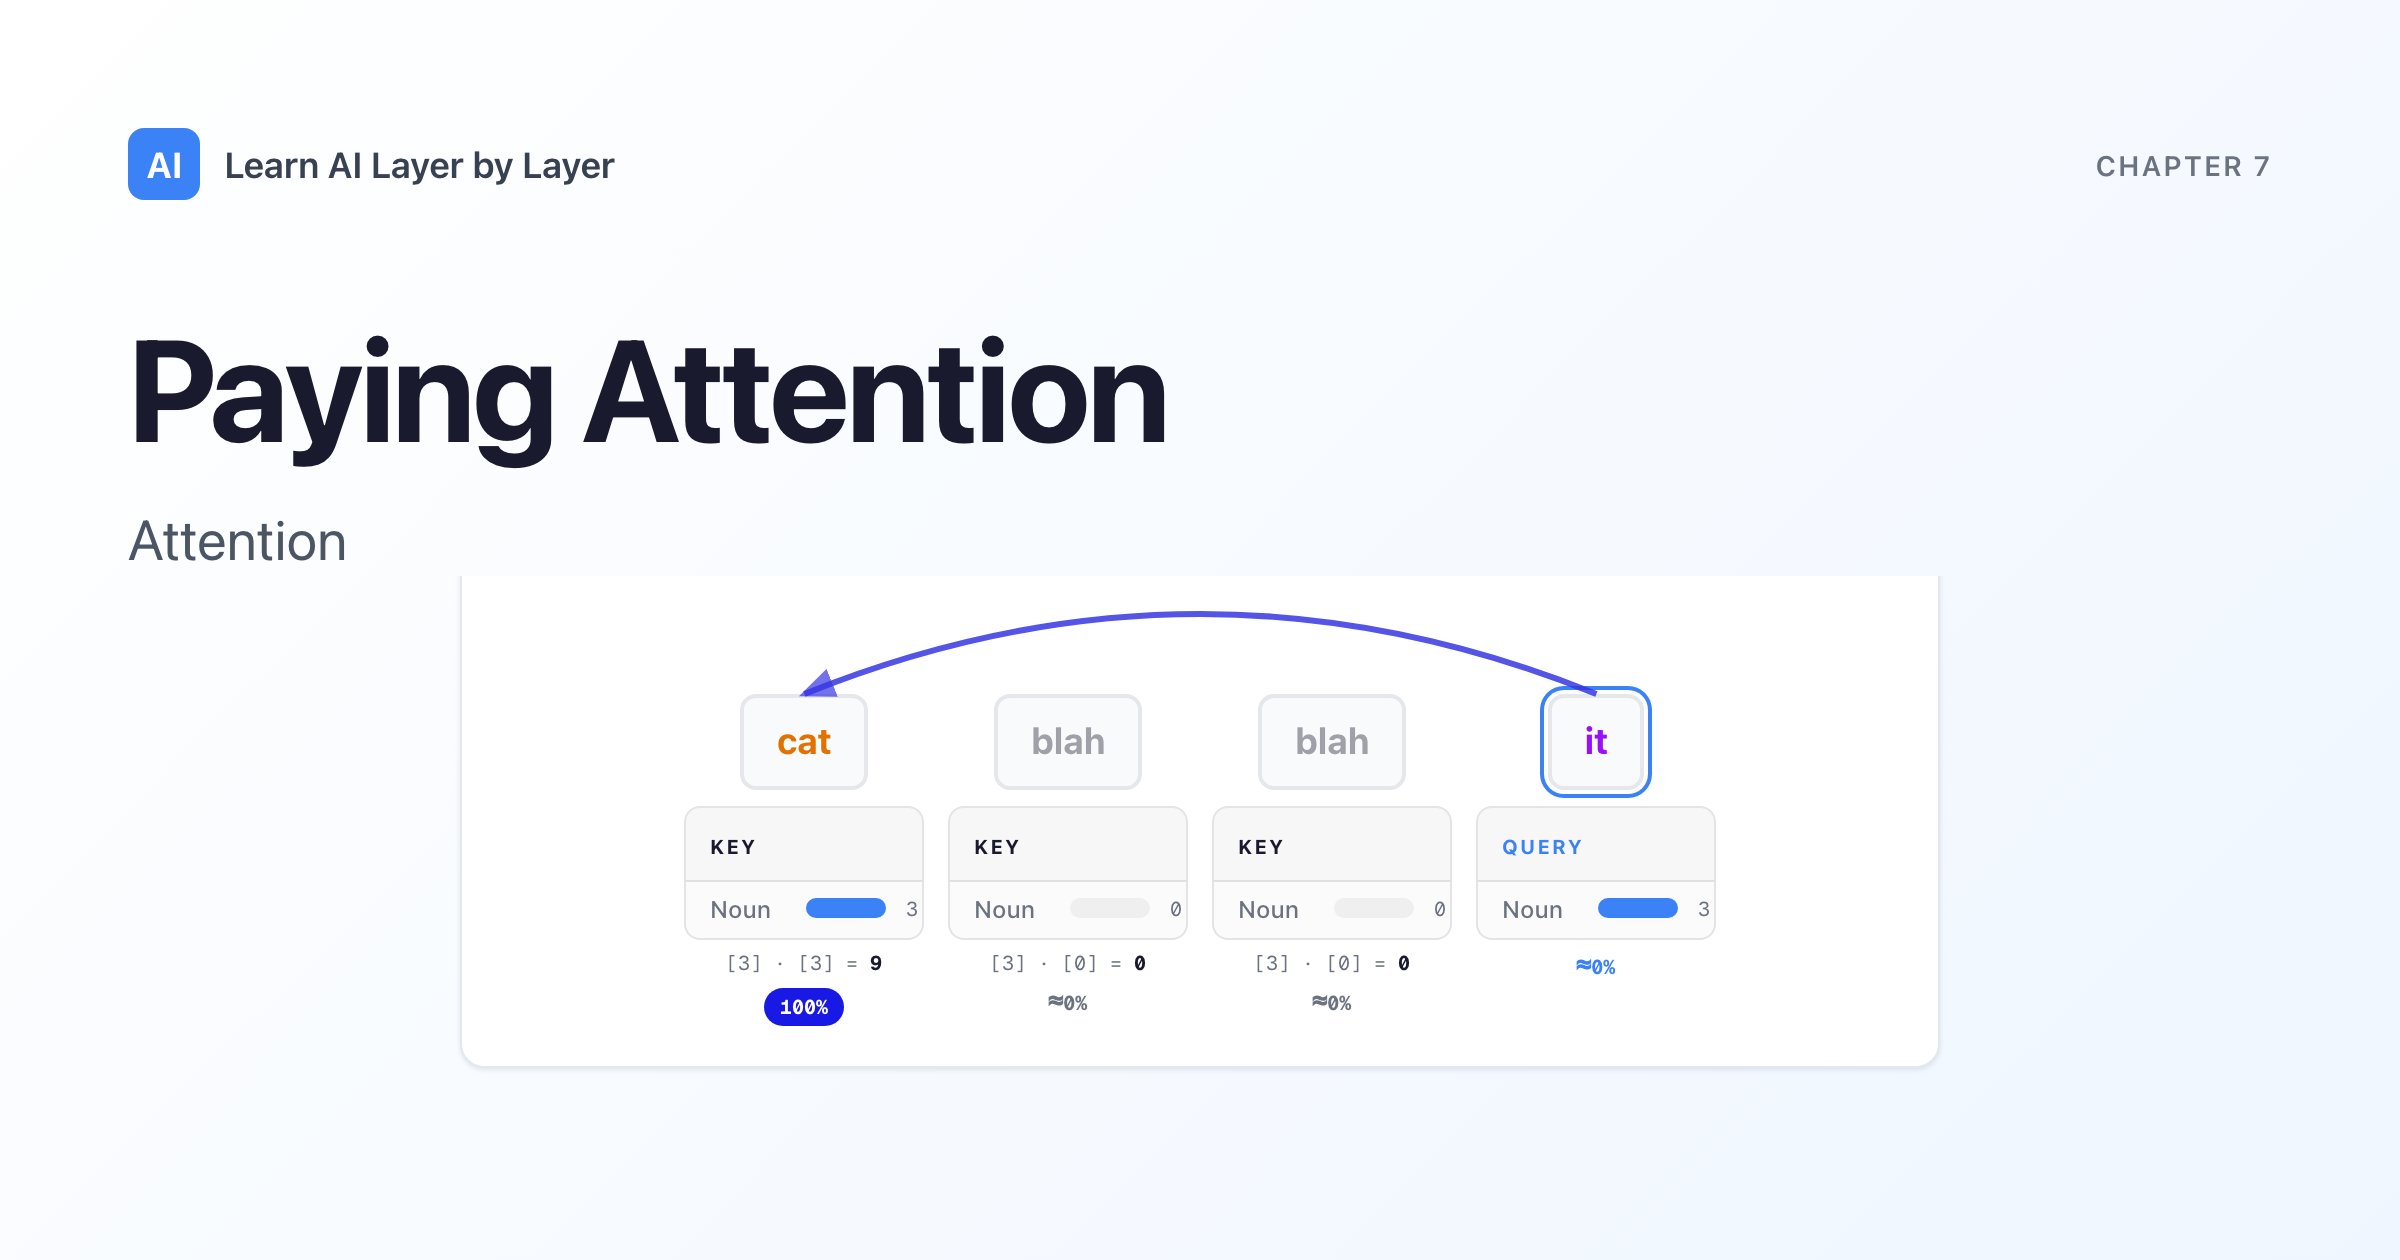
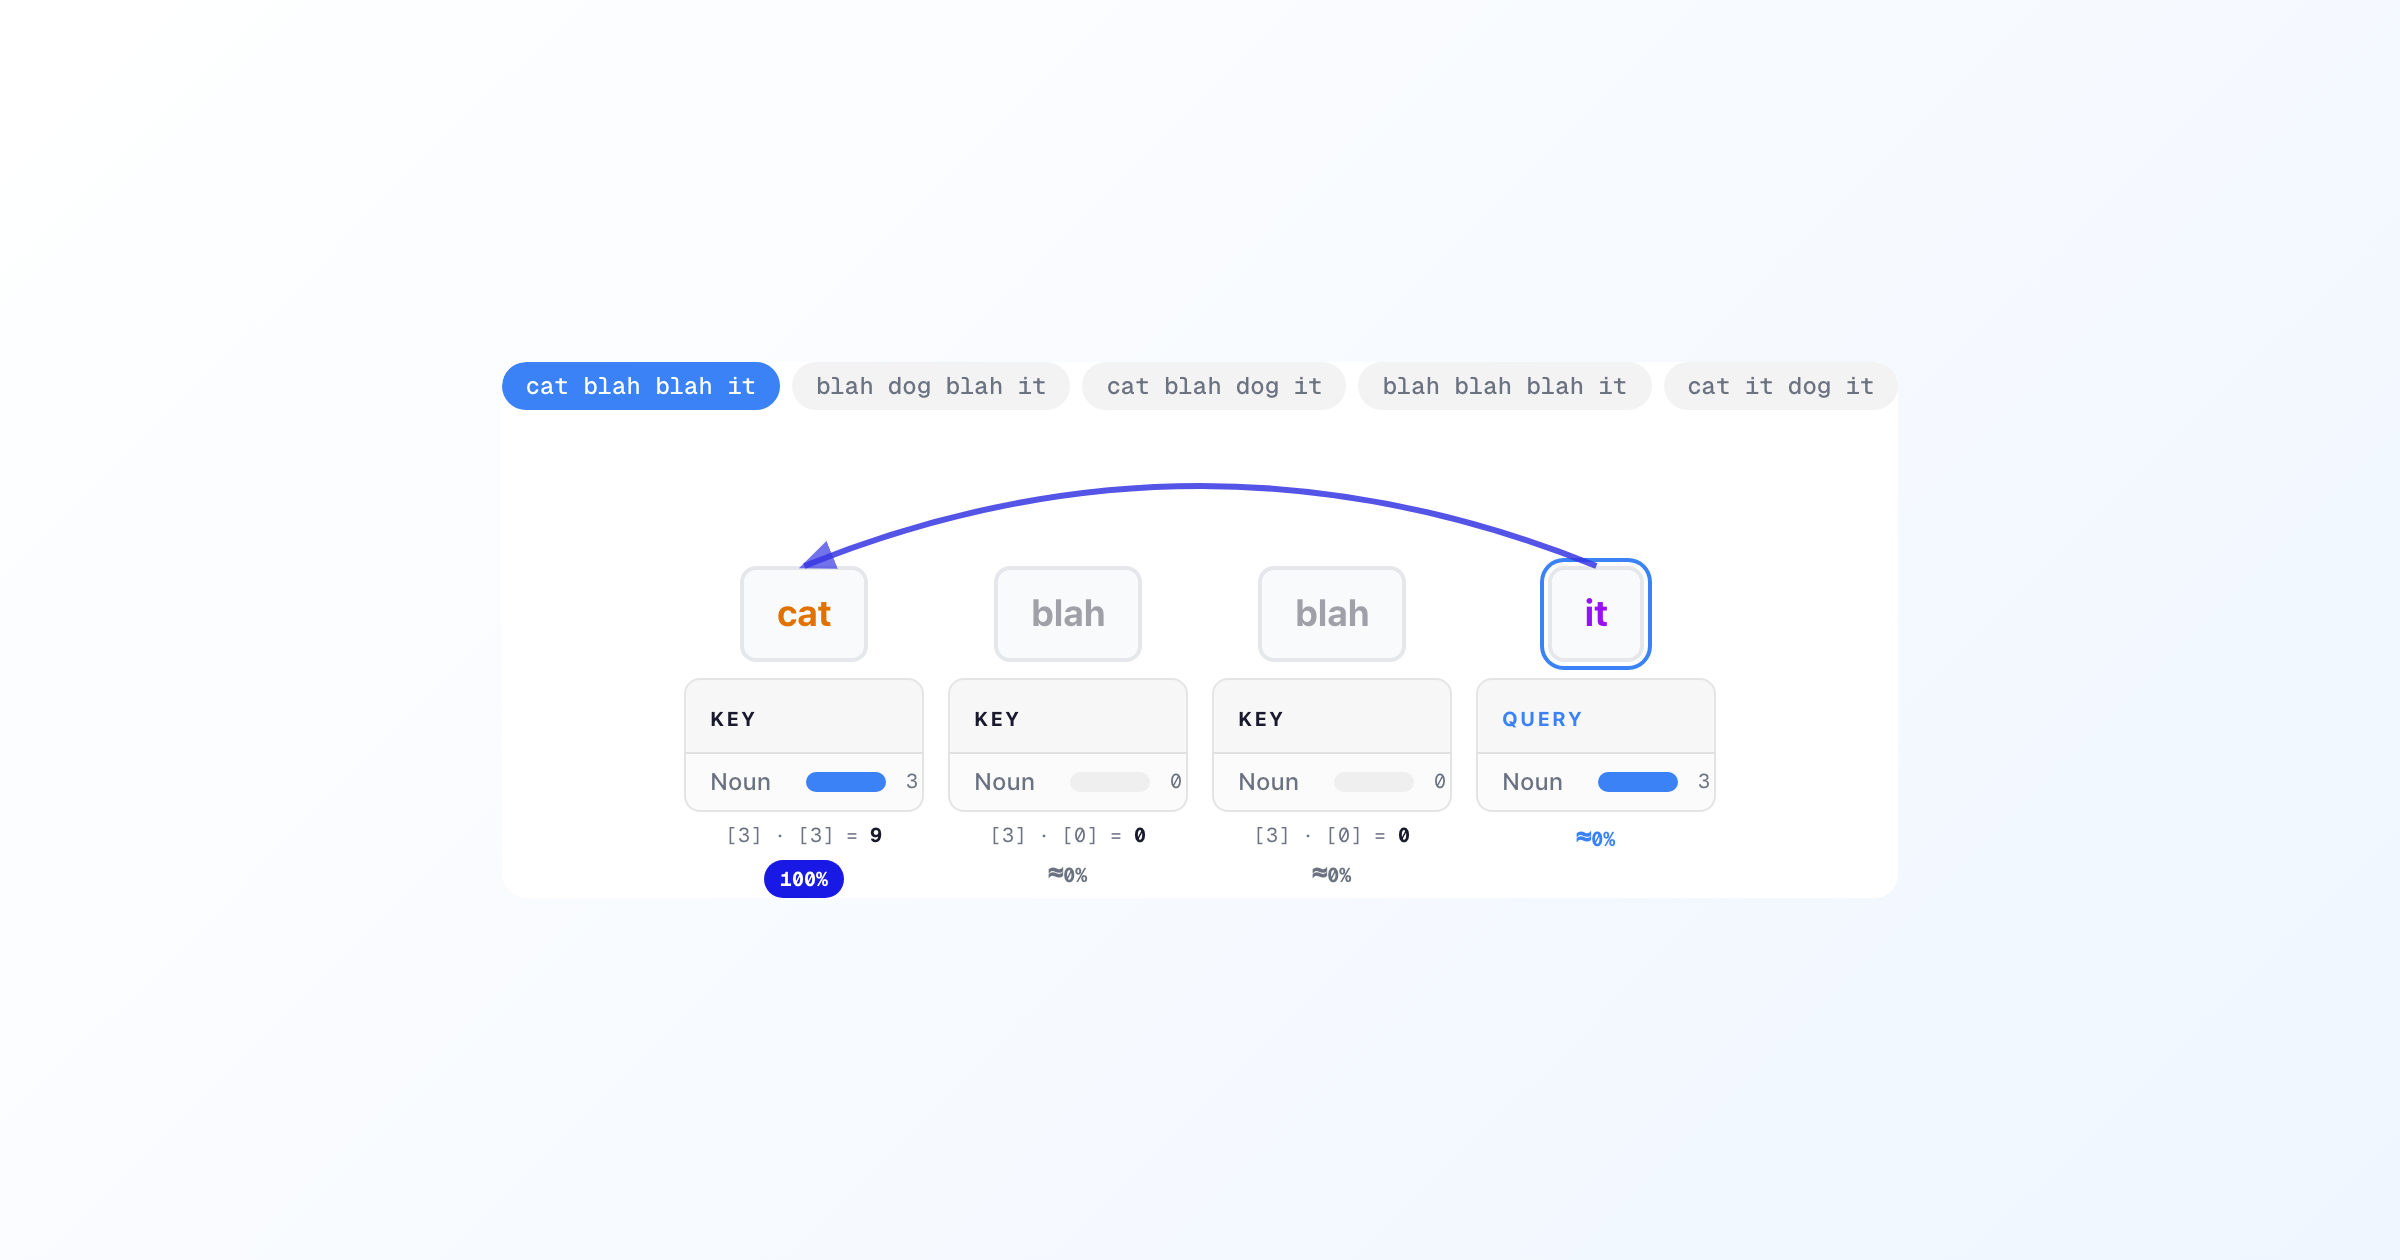
feat: OG images are now just the diagram, no title/branding chrome

diff --git a/src/app/og/OgCard.tsx b/src/app/og/OgCard.tsx
@@ -1,15 +1,24 @@
 import type { ReactNode } from "react";
 
-interface OgCardProps {
-  title: string;
-  subtitle: string;
-  number: string;
-  diagram: ReactNode | null;
-}
+// Diagram-only OG frame: 1200×630 with the widget centered, no title or
+// brand chrome. The platform (Twitter / Slack / etc.) renders the page
+// title and description below the image, so we don't repeat them here.
+//
+// We also hide the WidgetContainer's header bar, "Go to Next Tab" footer,
+// and TryIt panel — none of those belong in a static share image.
 
-export function OgCard({ title, subtitle, number, diagram }: OgCardProps) {
+const HIDE_CHROME_CSS = `
+  .og-frame .widget-container { box-shadow: none; border: none; }
+  .og-frame .widget-container > div:first-child { display: none; }
+  .og-frame .widget-container > div.border-t { display: none; }
+  .og-frame .widget-container > div.p-5 > div.mt-10.justify-center { display: none; }
+  .og-frame .widget-container > div.p-5 { padding: 0; }
+`;
+
+export function OgCard({ children }: { children: ReactNode }) {
   return (
     <div
+      className="og-frame"
       style={{
         position: "fixed",
         inset: 0,
@@ -18,94 +27,28 @@ export function OgCard({ title, subtitle, number, diagram }: OgCardProps) {
         height: 630,
         background: "linear-gradient(135deg, #ffffff 0%, #eff6ff 100%)",
         display: "flex",
-        flexDirection: "column",
-        padding: 64,
+        alignItems: "center",
+        justifyContent: "center",
+        padding: 48,
+        boxSizing: "border-box",
         fontFamily:
           'ui-sans-serif, system-ui, -apple-system, "Segoe UI", Roboto, sans-serif',
         color: "#1a1a2e",
-        boxSizing: "border-box",
       }}
     >
-      {/* Top brand bar */}
-      <div style={{ display: "flex", alignItems: "center", gap: 12 }}>
-        <div
-          style={{
-            width: 36,
-            height: 36,
-            borderRadius: 8,
-            background: "#3b82f6",
-            display: "flex",
-            alignItems: "center",
-            justifyContent: "center",
-            color: "#ffffff",
-            fontWeight: 700,
-            fontSize: 18,
-          }}
-        >
-          AI
-        </div>
-        <div style={{ fontSize: 18, fontWeight: 600, color: "#374151" }}>
-          Learn AI Layer by Layer
-        </div>
-        {number && (
-          <div
-            style={{
-              marginLeft: "auto",
-              fontSize: 14,
-              fontWeight: 600,
-              textTransform: "uppercase",
-              letterSpacing: "0.08em",
-              color: "#6b7280",
-            }}
-          >
-            {number}
-          </div>
-        )}
+      <style dangerouslySetInnerHTML={{ __html: HIDE_CHROME_CSS }} />
+      <div
+        style={{
+          width: "100%",
+          maxWidth: 1100,
+          maxHeight: 530,
+          display: "flex",
+          alignItems: "center",
+          justifyContent: "center",
+        }}
+      >
+        {children}
       </div>
-
-      {/* Title block */}
-      <div style={{ marginTop: 56 }}>
-        <div
-          style={{
-            fontSize: 72,
-            fontWeight: 700,
-            lineHeight: 1.05,
-            letterSpacing: "-0.02em",
-            color: "#1a1a2e",
-            maxWidth: 1000,
-          }}
-        >
-          {title}
-        </div>
-        <div
-          style={{
-            marginTop: 20,
-            fontSize: 28,
-            fontWeight: 400,
-            lineHeight: 1.3,
-            color: "#4b5563",
-            maxWidth: 1000,
-          }}
-        >
-          {subtitle}
-        </div>
-      </div>
-
-      {/* Diagram (if any) */}
-      {diagram && (
-        <div
-          style={{
-            marginTop: "auto",
-            display: "flex",
-            justifyContent: "center",
-            alignItems: "flex-end",
-            maxHeight: 280,
-            overflow: "hidden",
-          }}
-        >
-          {diagram}
-        </div>
-      )}
     </div>
   );
 }

diff --git a/src/app/og/site/page.tsx b/src/app/og/site/page.tsx
@@ -1,12 +1,77 @@
-import { OgCard } from "../OgCard";
+// Site-wide OG card — used by the homepage and as a fallback for chapters
+// that don't have a designated OG diagram. This one keeps the brand and
+// site title because it represents the site itself, not a specific chapter.
 
 export default function SiteOgPage() {
   return (
-    <OgCard
-      title="Learn AI Layer by Layer"
-      subtitle="An interactive guide to understanding AI from first principles"
-      number=""
-      diagram={null}
-    />
+    <div
+      style={{
+        position: "fixed",
+        inset: 0,
+        zIndex: 9999,
+        width: 1200,
+        height: 630,
+        background: "linear-gradient(135deg, #ffffff 0%, #eff6ff 100%)",
+        display: "flex",
+        flexDirection: "column",
+        alignItems: "center",
+        justifyContent: "center",
+        padding: 64,
+        boxSizing: "border-box",
+        fontFamily:
+          'ui-sans-serif, system-ui, -apple-system, "Segoe UI", Roboto, sans-serif',
+        color: "#1a1a2e",
+        textAlign: "center",
+      }}
+    >
+      <div
+        style={{
+          display: "flex",
+          alignItems: "center",
+          gap: 16,
+          marginBottom: 32,
+        }}
+      >
+        <div
+          style={{
+            width: 64,
+            height: 64,
+            borderRadius: 14,
+            background: "#3b82f6",
+            display: "flex",
+            alignItems: "center",
+            justifyContent: "center",
+            color: "#ffffff",
+            fontWeight: 700,
+            fontSize: 32,
+          }}
+        >
+          AI
+        </div>
+      </div>
+      <div
+        style={{
+          fontSize: 88,
+          fontWeight: 700,
+          lineHeight: 1.05,
+          letterSpacing: "-0.02em",
+          maxWidth: 1000,
+        }}
+      >
+        Learn AI Layer by Layer
+      </div>
+      <div
+        style={{
+          marginTop: 24,
+          fontSize: 32,
+          fontWeight: 400,
+          lineHeight: 1.3,
+          color: "#4b5563",
+          maxWidth: 900,
+        }}
+      >
+        An interactive guide to understanding AI from first principles
+      </div>
+    </div>
   );
 }

diff --git a/scripts/capture-og-images.ts b/scripts/capture-og-images.ts
@@ -11,6 +11,7 @@ import { chromium } from "@playwright/test";
 import { mkdir } from "node:fs/promises";
 import path from "node:path";
 import { getMainChapters, getAppendixChapters } from "../src/lib/curriculum";
+import { getOgDiagram } from "../src/lib/og-diagrams";
 
 const BASE_URL = process.env.OG_BASE_URL ?? "http://localhost:3000";
 const OUTPUT_DIR = path.resolve(process.cwd(), "public/og");
@@ -46,11 +47,14 @@ async function main() {
   // Site homepage variant.
   await captureOne(page, `${BASE_URL}/og/site`, path.join(OUTPUT_DIR, "site.png"));
 
-  // Each ready chapter.
-  const chapters = [...getMainChapters(), ...getAppendixChapters()].filter(
-    (c) => c.ready,
-  );
-  for (const ch of chapters) {
+  // Each ready chapter that has a curated OG diagram. Chapters without one
+  // fall back to /og/site.png in their metadata, so we skip them here.
+  const chaptersWithDiagrams = [
+    ...getMainChapters(),
+    ...getAppendixChapters(),
+  ].filter((c) => c.ready && getOgDiagram(c.slug) !== null);
+
+  for (const ch of chaptersWithDiagrams) {
     await captureOne(
       page,
       `${BASE_URL}/og/${ch.slug}`,
@@ -59,7 +63,9 @@ async function main() {
   }
 
   await browser.close();
-  console.log(`\nDone. ${chapters.length + 1} images written to public/og/.`);
+  console.log(
+    `\nDone. ${chaptersWithDiagrams.length + 1} images written to public/og/.`,
+  );
 }
 
 main().catch((err) => {

diff --git a/src/lib/chapter-metadata.ts b/src/lib/chapter-metadata.ts
@@ -1,24 +1,28 @@
 import type { Metadata } from "next";
 import { getChapter } from "./curriculum";
+import { getOgDiagram } from "./og-diagrams";
 
 export function chapterMetadata(slug: string): Metadata {
   const ch = getChapter(slug);
   if (!ch) {
     return { title: "Chapter not found" };
   }
+  // Chapters with a curated diagram get their own OG image; others fall back
+  // to the site-wide branded card.
+  const ogImage = getOgDiagram(slug) ? `/og/${slug}.png` : `/og/site.png`;
   return {
     title: ch.title,
     description: ch.description,
     openGraph: {
       title: ch.title,
       description: ch.description,
-      images: [`/og/${slug}.png`],
+      images: [ogImage],
     },
     twitter: {
       card: "summary_large_image",
       title: ch.title,
       description: ch.description,
-      images: [`/og/${slug}.png`],
+      images: [ogImage],
     },
   };
 }

diff --git a/src/app/og/[slug]/page.tsx b/src/app/og/[slug]/page.tsx
@@ -13,13 +13,7 @@ export default async function ChapterOgPage({
   if (!ch) notFound();
 
   const diagram = getOgDiagram(slug);
+  if (!diagram) notFound();
 
-  return (
-    <OgCard
-      title={ch.title}
-      subtitle={ch.subtitle}
-      number={ch.section === "appendix" ? "Appendix" : `Chapter ${ch.id}`}
-      diagram={diagram?.node ?? null}
-    />
-  );
+  return <OgCard>{diagram.node}</OgCard>;
 }
